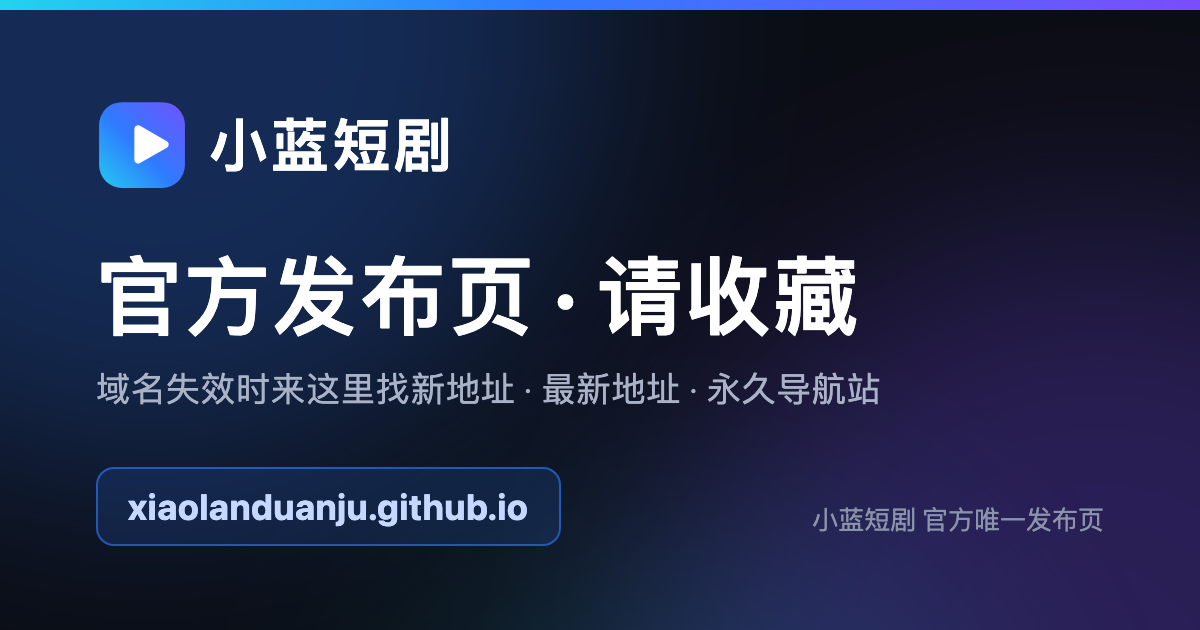
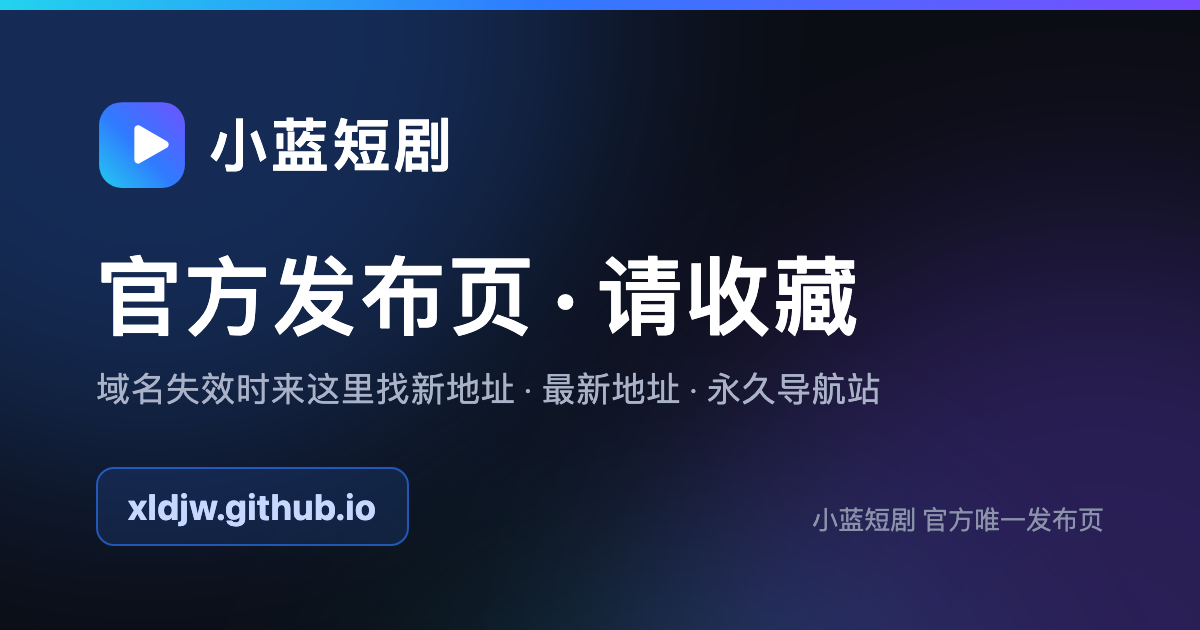
发布页地址定为 xldjw.github.io(用户名 xiaolanduanju 被占,实际注册 xldjw)

Changed region(s): [[0.1233, 0.7238, 0.4933, 0.8746]]

diff --git a/index.html b/index.html
@@ -12,20 +12,20 @@
 <meta property="og:locale" content="zh_CN">
 <meta property="og:title" content="小蓝短剧｜官方发布页 · 最新地址 · 请收藏">
 <meta property="og:description" content="域名失效时来这里找新地址。官网最新地址、导航站入口一站找齐。">
-<meta property="og:url" content="https://xiaolanduanju.github.io/">
-<meta property="og:image" content="https://xiaolanduanju.github.io/og.png">
+<meta property="og:url" content="https://xldjw.github.io/">
+<meta property="og:image" content="https://xldjw.github.io/og.png">
 <meta property="og:image:width" content="1200">
 <meta property="og:image:height" content="630">
 <meta property="og:image:alt" content="小蓝短剧 官方发布页 · 请收藏">
 <meta name="twitter:card" content="summary_large_image">
 <meta name="twitter:title" content="小蓝短剧 官方发布页 · 请收藏本页">
 <meta name="twitter:description" content="域名失效时来这里找新地址。官网最新地址一站找齐。">
-<meta name="twitter:image" content="https://xiaolanduanju.github.io/og.png">
+<meta name="twitter:image" content="https://xldjw.github.io/og.png">
 <link rel="icon" href="favicon.ico">
 <title>小蓝短剧 官方发布页｜最新地址 · 永久地址 · 请收藏</title>
-<link rel="canonical" href="https://xiaolanduanju.github.io/">
+<link rel="canonical" href="https://xldjw.github.io/">
 <script type="application/ld+json">
-{"@context":"https://schema.org","@type":"WebSite","name":"小蓝短剧官方发布页","alternateName":"小蓝短剧发布页","url":"https://xiaolanduanju.github.io/"}
+{"@context":"https://schema.org","@type":"WebSite","name":"小蓝短剧官方发布页","alternateName":"小蓝短剧发布页","url":"https://xldjw.github.io/"}
 </script>
 <script>
 /* ==============================================================
@@ -62,7 +62,7 @@ const CONFIG = {
   // 自动回复邮箱：用户发任意消息过去，自动回复最新地址；没有就留空 ""
   contactEmail: "",
   // 发布页永久地址（就是本页地址）；留空 "" 则自动用当前网址
-  publishPage: "https://xiaolanduanju.github.io/",
+  publishPage: "https://xldjw.github.io/",
   // 注意事项：一行一条，想改就改这里；不需要就留空数组 []
   notices: [
     "安卓手机和电脑推荐用 Chrome（谷歌）浏览器访问，iPhone 用户建议使用自带的 Safari 浏览器。",
@@ -417,7 +417,7 @@ const CONFIG = {
   <section class="about">
     <h2>关于小蓝短剧官方发布页</h2>
     <p>本页是<strong>小蓝短剧</strong>唯一的官方地址发布页。小蓝短剧网址打不开、域名失效或被墙时，来这里查<strong>小蓝短剧最新地址</strong>：官网 xiaolanduanju.com、xiaolanduanju.cn，以及长期有效的导航站 xiaolandaohang.com（各站最新访问地址一站直达）。</p>
-    <p>请收藏本页 xiaolanduanju.github.io，认准本页公布的域名，谨防仿冒站。</p>
+    <p>请收藏本页 xldjw.github.io，认准本页公布的域名，谨防仿冒站。</p>
   </section>
 
   <footer>

diff --git a/og-src/og.html b/og-src/og.html
@@ -21,7 +21,7 @@
     <img class="logo" src="../logo.svg" alt="">
     <div class="title">官方发布页 · 请收藏</div>
     <div class="sub">域名失效时来这里找新地址 · 最新地址 · 永久导航站</div>
-    <div class="url">xiaolanduanju.github.io</div>
+    <div class="url">xldjw.github.io</div>
     <div class="tag">小蓝短剧 官方唯一发布页</div>
   </div>
 </body></html>

diff --git a/README.md b/README.md
@@ -41,7 +41,7 @@
 - 只改 `CONFIG` 那一段和 `domains.json`，页面其他部分不用动
 - 网址建议带 `https://`（漏写了页面也会自动补上）
 - `og.png` 是分享卡片图（1200×630），源文件在 `og-src/og.html`，改完用 Chrome 无头重新截一张
-- 统计用的是导航站同一个 GA4（G-YQ0XFMTFHJ），在 GA 里按主机名 xiaolanduanju.github.io 过滤看本页数据；
+- 统计用的是导航站同一个 GA4（G-YQ0XFMTFHJ），在 GA 里按主机名 xldjw.github.io 过滤看本页数据；
   以后想单独建一个属性，改 CONFIG 里的 `gaMeasurementId` 即可
 - SEO：`<title>`、canonical、`robots.txt`、`sitemap.xml`、页面底部「关于」那段写死的文字都在仓库里；
   Search Console / Yandex 站长验证的 meta 标签以后加在 index.html 头部
